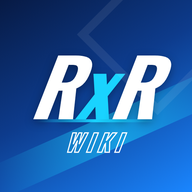
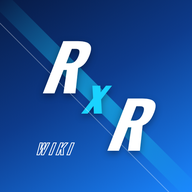
アプリアイコンを RxR の斜め配置に変更（別案も保存）
Claude-Session: https://claude.ai/code/session_01N1eAzdvEhM9HvqUc1xMepk

diff --git a/images/app/icon-source.html b/images/app/icon-source.html
@@ -3,11 +3,11 @@
 <style>
 html,body{margin:0;background:transparent}
 .ic{width:512px;height:512px;position:relative;overflow:hidden;background:linear-gradient(150deg,#071a44 0%,#0d3b8c 45%,#1a86ff 100%);font-family:Oswald,sans-serif}
-.ic.round{border-radius:0}
-.ic::before{content:"";position:absolute;left:-40px;top:300px;width:700px;height:90px;background:linear-gradient(90deg,rgba(25,211,255,.0),rgba(25,211,255,.55),rgba(25,211,255,0));transform:rotate(-24deg)}
-.ic::after{content:"";position:absolute;right:-60px;top:-60px;width:260px;height:260px;border:22px solid rgba(255,255,255,.08);transform:rotate(45deg)}
-.t{position:absolute;left:0;right:0;top:118px;text-align:center;color:#fff;font-weight:700;font-size:210px;line-height:1;font-style:italic;letter-spacing:-4px;transform:skewX(-8deg);text-shadow:0 8px 24px rgba(0,0,0,.35)}
-.t span{color:#19d3ff}
-.w{position:absolute;left:0;right:0;top:330px;text-align:center;font-weight:700;font-size:64px;font-style:italic;letter-spacing:10px;color:transparent;-webkit-text-stroke:3px #fff;transform:skewX(-8deg)}
-.bar{position:absolute;left:96px;right:96px;top:318px;height:8px;background:linear-gradient(90deg,transparent,#19d3ff,transparent)}
-</style></head><body><div class="ic" id="ic"><div class="t">R<span>x</span>R</div><div class="bar"></div><div class="w">WIKI</div></div></body></html>
+.ic::before{content:"";position:absolute;left:-120px;top:236px;width:760px;height:46px;background:linear-gradient(90deg,rgba(25,211,255,0),rgba(25,211,255,.6),rgba(25,211,255,0));transform:rotate(45deg)}
+.ic::after{content:"";position:absolute;left:-120px;top:236px;width:760px;height:2px;background:rgba(255,255,255,.35);transform:rotate(45deg) translateY(60px)}
+.l{position:absolute;color:#fff;font-weight:700;font-style:italic;line-height:1;transform:skewX(-8deg);text-shadow:0 8px 22px rgba(0,0,0,.4)}
+.r1{left:92px;top:58px;font-size:200px}
+.x{left:218px;top:168px;font-size:150px;color:#19d3ff}
+.r2{left:292px;top:236px;font-size:200px}
+.w{position:absolute;left:70px;top:384px;font-weight:700;font-size:46px;font-style:italic;letter-spacing:8px;color:transparent;-webkit-text-stroke:2.5px #fff;transform:skewX(-8deg)}
+</style></head><body><div class="ic" id="ic"><div class="g" style="position:absolute;inset:0;transform:scale(.86)"><div class="l r1">R</div><div class="l x">x</div><div class="l r2">R</div><div class="w">WIKI</div></div></div></body></html>

diff --git a/images/app/icon-source-b.html b/images/app/icon-source-b.html
@@ -1,0 +1,11 @@
+<!doctype html><html><head><meta charset="utf-8">
+<link href="https://fonts.googleapis.com/css2?family=Oswald:wght@700&display=block" rel="stylesheet">
+<style>
+html,body{margin:0;background:transparent}
+.ic{width:512px;height:512px;position:relative;overflow:hidden;background:linear-gradient(150deg,#071a44 0%,#0d3b8c 45%,#1a86ff 100%);font-family:Oswald,sans-serif}
+.band{position:absolute;left:-100px;right:-100px;top:196px;height:150px;background:linear-gradient(90deg,rgba(25,211,255,0),rgba(25,211,255,.28),rgba(25,211,255,0));transform:rotate(-24deg)}
+.g{position:absolute;inset:0;transform:rotate(-24deg)}
+.t{position:absolute;left:0;right:0;top:130px;text-align:center;color:#fff;font-weight:700;font-size:200px;line-height:1;letter-spacing:-4px;text-shadow:0 8px 24px rgba(0,0,0,.35)}
+.t span{color:#19d3ff}
+.w{position:absolute;left:0;right:0;top:336px;text-align:center;font-weight:700;font-size:54px;letter-spacing:10px;color:transparent;-webkit-text-stroke:3px #fff}
+</style></head><body><div class="ic" id="ic"><div class="band"></div><div class="g"><div class="t">R<span>x</span>R</div><div class="w">WIKI</div></div></div></body></html>

diff --git a/CLAUDE.md b/CLAUDE.md
@@ -15,7 +15,7 @@
   - babel: `バベル種類` + `階層` が識別子。`攻略のコツ`（旧 `ポイント`。Firestore に古い列名が残っていれば管理画面が自動で付け替える＝js/admin.js の RENAMES）。`解析データ` は1行1効果、`【味方】`などの見出し行で区切る。`おすすめキャラID` はカンマ区切りのキャラID。
   - teams（編成例）: `バベル種類`+`階層`+`編成名` が識別子。`メンバー` は1行1人「キャラID|星|スクリプト名」（最大6人）、`コメント`。管理画面のバベル編集画面か「編成例」で編集し、公開サイトは階層ページに表示。星の下限はキャラの `レアリティ`（R=★1・SR=★2・SSR=★3）。予備は data/teams.json。
 - `data/images.json` … 画像の対応表。`thumbs`/`banners`（キャラID→パス）、`sthumbs`/`sfull`（スクリプト名→パス）、`icons`（属性・ロール・階級・騎士団名→パス）、`hero`。
-- ホーム画面に追加：`manifest.webmanifest` と `images/app/`（icon-192/512・apple-touch-icon・favicon-32。元デザインは images/app/icon-source.html を Chromium で 512px に撮って縮小）。ホームの「📲 ホーム画面に追加」で Android/PC はインストール、iPhone は手順を表示。
+- ホーム画面に追加：`manifest.webmanifest` と `images/app/`（icon-192/512・apple-touch-icon・favicon-32。元デザインは images/app/icon-source.html（斜め配置。別案 icon-source-b.html）を Chromium で 512px に撮って縮小）。ホームの「📲 ホーム画面に追加」で Android/PC はインストール、iPhone は手順を表示。
 - `images/` … Web用に縮小した画像（元画像は RxRDBbot/images）。サムネイルは 176px 正方形 webp。
 
 ## Firebase（プロジェクト my-log-vh3o3b / 表示名 RxRbabelDB、Spark プラン）
